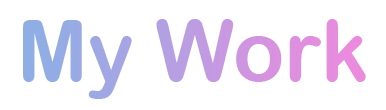
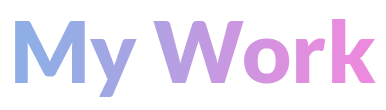
update projects

Changed region(s): [[0.3731, 0.1636, 0.9948, 0.7636], [0.0311, 0.1636, 0.3731, 0.9], [0.4041, 0.5727, 0.4352, 0.6273]]

diff --git a/index.html b/index.html
@@ -21,7 +21,7 @@
     <!-- favicon -->
     <link rel="icon" type="image/png" href="assets/imgs/favicon.png">
     <!-- fonts -->
-    <link href="https://fonts.googleapis.com/css?family=Abril+Fatface|Archivo+Black|Baloo+Bhaina|Bowlby+One|Concert+One|Passion+One|Righteous|Shrikhand" rel="stylesheet">
+    <link href="https://fonts.googleapis.com/css?family=Lato:900|Archivo+Black|Bowlby+One|Concert+One|Passion+One|Righteous|Shrikhand" rel="stylesheet">
   </head>
 
   <body>
@@ -30,18 +30,18 @@
         <div>
           <ul class="nav navbar-nav pull-right">
             <!-- <li><a href="#">About</a></li> -->
-            <li><a href="#secondpage">Skills</a></li>
+            <li><a href="#">Home</a></li>
+            <li><a href="#secondpage">About</a></li>
             <li><a href="#thirdpage">Project</a></li>
-            <li><a href="#">Message Me</a></li>
           </ul>
         </div>
       </nav>
     </header>
+  <div class="container-fluid">
+    <div class="parallax row">
 
-    <div class="parallax">
-
-
-      <div class="boxed">
+      <div class="col-md-3"></div>
+      <div class="col-md-6 aboutme">
         <div class="icons pull-center">
           <a  href="https://www.linkedin.com/in/viviennewhite/"><img class="icon" src="assets/imgs/linkedin.png" alt=""></a>
           <a  href="https://github.com/Vivwhite"><img class="icon" src="assets/imgs/github.png" alt=""></a>
@@ -50,7 +50,9 @@
         <h1 id="enlarge">Vivienne White</h1>
         <img class="developer" src="assets/imgs/developer.png" alt="">
       </div>
-      <div class="arrow file:///Users/vivi/Desktop/wdi/vivwhite.github.io/index.html">
+      <div class="col-md-3"></div>
+      <br>
+      <div class="arrow col-md-12">
       <a href="#secondpage">
         <img class="scroll animated fadeInDown" src="assets/imgs/arrow.png" alt="">
       </a>
@@ -58,11 +60,19 @@
     </div>
     <!-- secondpage -->
     <div class="secondpage row" id="secondpage">
-      <div class="col-md-6 skill pull-left" >
-        <h1>MY SKILLS:</h1>
+      <div class="col-md-6  profile" >
+        <div class="card pull-right">
+          <img class="card-img-top" src="assets/imgs/profileimg1.png" alt="Card image cap">
+          <div class="card-block">
+            <h2 class="card-title">About Me</h2>
+            <p class="card-text">I’m a frontend developer who’s enthusiastic about crafting elegant product experiences with a strong eye for aesthetic design. My passion includes researching and learning new technologies and tools, as well as finding the joy in solving problems. I bring project management skills,  passion for innovation, and a mindset of efficiency and creativity.</p>
+          </div>
+        </div>
+
+        <!-- <img class="profilepic" src="assets/imgs/profileimg1.png" alt=""> -->
       </div>
       <div class="col-md-6 skill-img pull-right">
-        <img src="assets/imgs/skillset.png" alt="">
+        <img src="assets/imgs/skillset1.png" alt="">
       </div>
 
     </div>
@@ -71,24 +81,37 @@
     <div class="thirdpage row parallax" id="thirdpage">
       <div class="project-container">
         <img class="mywork" src="assets/imgs/mywork.png" alt="">
+
         <div class="col-md-6 hoverable">
           <img class="pimage image" src="assets/imgs/timeshare.jpg">
           <div class="middle">
             <div class="text">
-              <h2>TIMESHARE</h2><hr>
+              <a href="https://timeshare-atx.herokuapp.com/">
+                <h2>TIMESHARE</h2><hr>
+              </a>
               <p>A web app that allows people to post content that captures meaningful moments in their lives .</p>
               <p class="tech-used">Technology used: Bootstrap, React, Node.js, MongoDB, Heroku</p>
             </div>
           </div>
         </div>
+
         <div class="col-md-6 hoverable">
           <img class="pimage image" src="assets/imgs/tictactoe.png">
+          <div class="middle">
+            <div class="text">
+              <a href="http://tic-tac-meow.bitballoon.com/">
+                <h2>TIC TAC MEOW</h2><hr>
+              </a>
+              <p>A tec tac toe game built with HTML, CSS and Javascript.</p>
+              <p class="tech-used">Technology used: HTML, CSS, Bootstrap, javascript </p>
+            </div>
+          </div>
         </div>
       </div>
       </div>
 
     </div>
-
+  <div>
   </body>
 
 </html>

diff --git a/assets/css/main.css b/assets/css/main.css
@@ -1,6 +1,6 @@
 h1 {
   text-align: center;
-  font-family: 'Abril Fatface'; }
+  font-family: 'Lato', sans-serif; }
 
 .boxed {
   margin: 0 auto;
@@ -21,11 +21,11 @@ h1 {
 
 .developer {
   margin: 0 auto;
-  width: 100%; }
+  width: 70%; }
 
 #enlarge {
   font-weight: bold;
-  font-size: 38px;
+  font-size: 50px;
   color: white; }
 
 /* custom styles */
@@ -36,7 +36,7 @@ body {
   color: white;
   text-shadow: -1px 0 black, 0 1px black, 1px 0 black, 0 -1px black;
   height: 50px;
-  font-family: 'Baloo Bhaina', cursive;
+  font-family: 'Lato', sans-serif;
   font-size: 18px; }
 
 .navbar-inverse {
@@ -80,14 +80,13 @@ li a {
   background-repeat: no-repeat;
   background-size: cover; }
 
-.skill {
+.profile {
   display: inline-block;
   margin-top: 250px;
   font-size: 30px; }
 
 .skill-img {
-  margin-top: -300px;
-  margin-right: 100px;
+  margin-top: 100px;
   display: inline-block; }
 
 .thirdpage {
@@ -126,8 +125,8 @@ li a {
   padding: 16px; }
 
 .mywork {
-  margin-top: 30px;
-  margin-bottom: 30px;
+  margin-top: 60px;
+  margin-bottom: 60px;
   width: 250px; }
 
 .project-container {
@@ -146,5 +145,39 @@ hr {
   width: 55%;
   margin-left: 0;
   margin-top: 8px; }
+
+h2 {
+  font-family: 'Lato', sans-serif; }
+
+.aboutme {
+  margin-top: 200px; }
+
+.card {
+  width: 75%;
+  margin-top: -100px;
+  margin-left: 40px;
+  background: white;
+  border-radius: 15px; }
+
+h4 {
+  font-size: 20px;
+  font-family: 'Lato', sans-serif; }
+
+.card-title {
+  text-align: center;
+  margin-top: -4px; }
+
+.card-text {
+  font-size: 17px;
+  text-align: center;
+  margin-bottom: 20px;
+  margin-left: 5%;
+  width: 90%; }
+
+.card-img-top {
+  margin-top: -80px; }
+
+a h2 {
+  color: white; }
 
 /*# sourceMappingURL=main.css.map */

diff --git a/assets/css/main.scss b/assets/css/main.scss
@@ -1,6 +1,7 @@
 h1 {
 	text-align: center;
-	font-family: 'Abril Fatface';
+	font-family: 'Lato', sans-serif;
+
 
 }
 .boxed {
@@ -26,12 +27,12 @@ margin: auto;}
 
 .developer {
 	margin: 0 auto;
-	width: 100%;
+	width: 70%;
 }
 
 #enlarge {
 	font-weight: bold;
-	font-size: 38px;
+	font-size: 50px;
 	color: white;
 }
 /* custom styles */
@@ -44,7 +45,7 @@ body {
 	color: white;
 text-shadow: -1px 0 black, 0 1px black, 1px 0 black, 0 -1px black;
 	height: 50px;
-	font-family: 'Baloo Bhaina', cursive;
+	font-family: 'Lato', sans-serif;
 	font-size: 18px;
 
 }
@@ -108,16 +109,16 @@ li a {
 
 }
 
-.skill {
+.profile {
 	display: inline-block;
 	margin-top: 250px;
 	font-size: 30px;
 }
 
 .skill-img {
-	margin-top: -300px;
-	margin-right: 100px;
-	display: inline-block;
+	margin-top: 100px;
+
+display: inline-block;
 }
 
 // third page
@@ -176,8 +177,8 @@ li a {
 }
 
 .mywork {
-	margin-top: 30px;
-	margin-bottom: 30px;
+	margin-top: 60px;
+	margin-bottom: 60px;
 	width: 250px;
 }
 
@@ -200,4 +201,45 @@ hr {
 	width: 55%;
 	margin-left: 0;
 	margin-top: 8px;
+}
+
+h2 {
+	font-family: 'Lato', sans-serif;
+}
+
+.aboutme {
+	margin-top: 200px;
+}
+
+.card {
+	width: 75%;
+    margin-top: -100px;
+    margin-left: 40px;
+		background: white;
+    border-radius: 15px;
+}
+
+h4 {
+	font-size: 20px;
+	font-family: 'Lato', sans-serif;
+}
+
+.card-title {
+	text-align: center;
+	margin-top: -4px;
+}
+.card-text {
+	font-size: 17px;
+	text-align: center;
+	margin-bottom: 20px;
+	margin-left: 5%;
+	width: 90%;
+}
+
+.card-img-top {
+	margin-top: -80px;
+}
+
+a h2 {
+	color: white;
 }
